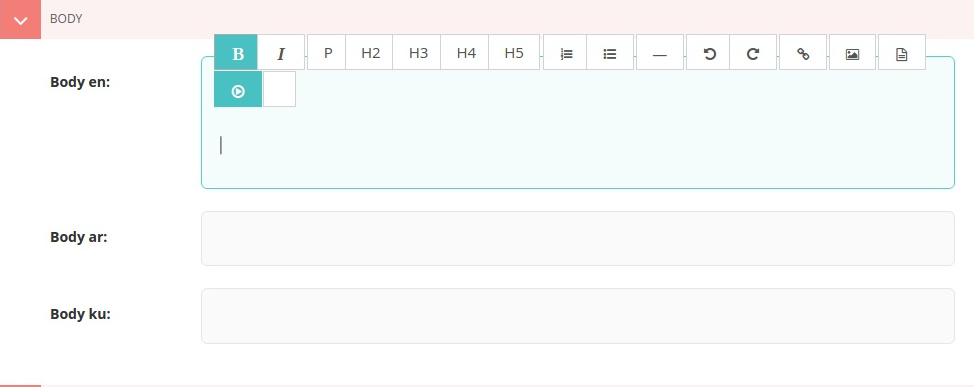
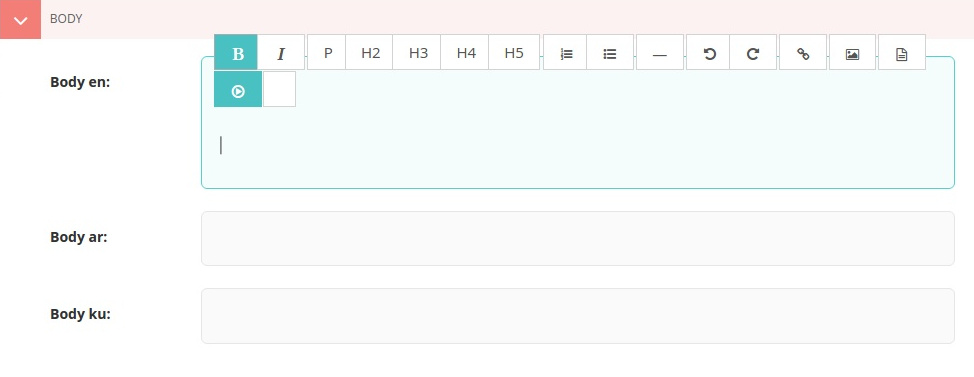
Changes

diff --git a/uodtemplates/sphinx_rtd_theme-master/demo_docs/source/page.rst b/uodtemplates/sphinx_rtd_theme-master/demo_docs/source/page.rst
@@ -78,15 +78,22 @@ Content
 ``Title``
 `````````
 
-	The English (EN) title is required, without it the page can not be created. ``Title`` is also equired to auto-generate the ``Slug`` and the HTML ``Page title``.
+	The English (EN) title is required, without it the page can not be created. ``Title`` is also equired for auto-generating ``Slug`` and HTML ``Page title``.
 
-	.. image:: static/page_title.jpg
+	.. image:: static/page_content_title.jpg
 
 
 ``Body``
 ````````
 
-	The page contents. You can insert multimedia objects, like images, videos and documents.
+	The page content. You can insert text, images, videos and documents.
 
-	.. image:: static/page_body.jpg
+	.. image:: static/page_content_body.jpg
 
+
+``Images``
+``````````
+
+	Single or multiple images can be uploaded. Supported formats are **``.jpg``** and **``.png``**. Maximum file size is **10MB**. 
+
+	.. image:: static/page_content_images.jpg
